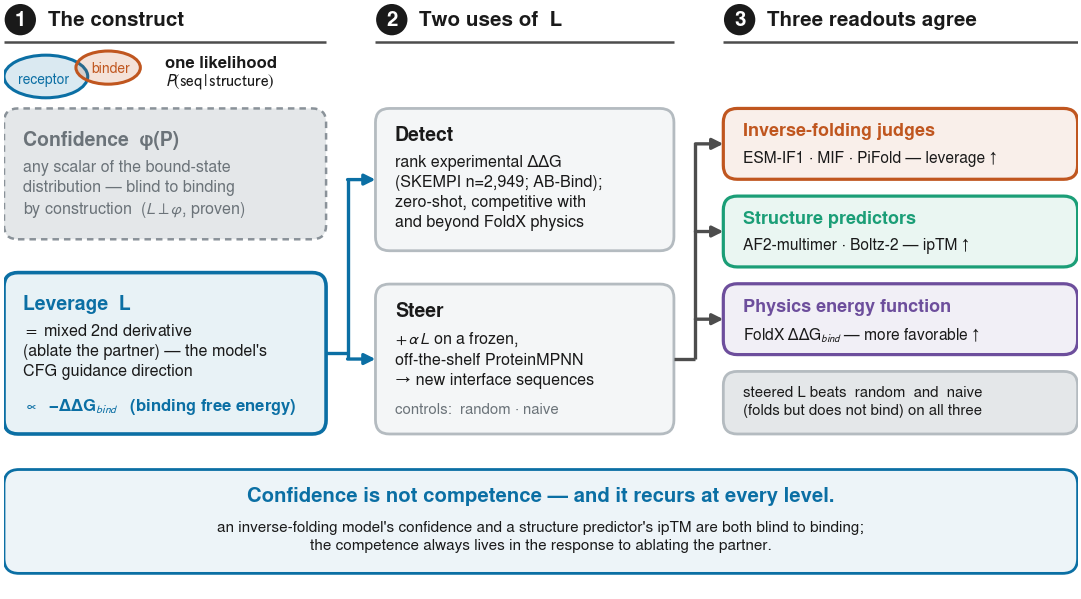
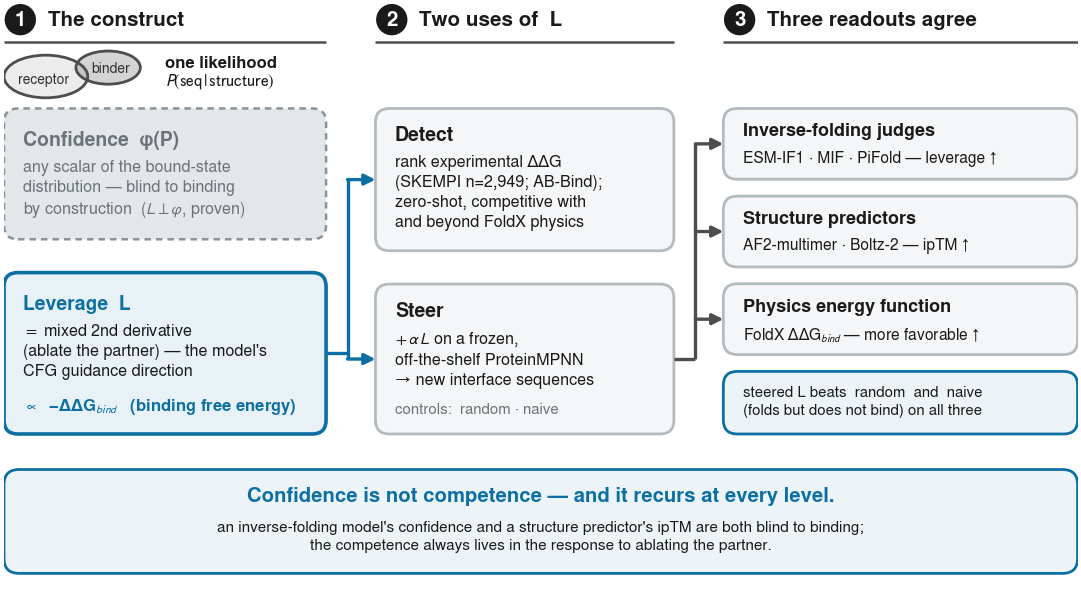
figstyle: give PiFold and MIF their own hues so GEOM/CONS mean geometry and conservation only
GEOM (#1B9E77) and CONS (#6D4E9C) meant geometry and substitution similarity in
fig_ladder / fig5_gradient but were reused as the PiFold and MIF judge identities in
fig_robustness, and as "structure predictors" / "physics energy function" in
fig_overview. One hue, three meanings, across figures a reader flips between.

Adds two MODEL hues -- PIFOLD #CA007F, MIF #996BFE -- chosen by searching OKLCH space
under the dataviz validator's own math and confirmed with the validator itself:

  the four MODEL hues, ALL-PAIRS (any two models can be adjacent rows in a judge list)
    "#0B6FA4,#C0561F,#CA007F,#996BFE" --pairs all --mode light  5/5 PASS
    "#0B6FA4,#C0561F,#CA007F,#996BFE" --pairs all --mode dark   5/5 PASS
      worst CVD dE 10.0 (#CA007F<->#0B6FA4, protan); worst normal dE 18.3
  the documented 6-slot order, ADJACENT
    "#0B6FA4,#C0561F,#CA007F,#996BFE,#1B9E77,#6D4E9C" --mode light  5/5 PASS
    "#0B6FA4,#C0561F,#CA007F,#996BFE,#1B9E77,#6D4E9C" --mode dark   PASS with the
      pre-existing CONS 2.67:1 dark-surface relief WARN (predates these hues; relieved
      by the house rule that every plotted value is direct-labelled)

Both new hues also sit >= 15 normal-vision dE from GEOM and CONS, so nothing reads as
"the teal one" across figures even though model and concept hues never share a chart.

Remapped:
  fig_robustness  judge matrix now takes S.MODEL_HUES (PiFold magenta, MIF violet)
[…]

diff --git a/src/fig_overview.py b/src/fig_overview.py
@@ -14,8 +14,10 @@ so it can never drift from Fig. 1's n.
 
 Layout: a three-column grid with constant gutters. Every box is SIZED FROM ITS OWN TEXT (see `_h`), so a box can
 never be too small for what it holds, and each column is justified to a common floor — the arrows and the thesis
-strip then hang off that same grid. Hue is model/role identity, never decoration: LEV = the construct L and its
-path, SCALAR-grey = the blind scalar-of-P class, ESMIF/GEOM/CONS = the three independent readout families.
+strip then hang off that same grid. Hue is MODEL identity, never decoration: LEV = the construct L and its path,
+SCALAR-grey = the blind scalar-of-P class. The three readout families are families, not models, so they take the
+structural grey of the Detect/Steer boxes rather than borrowing GEOM and CONS, which mean geometry and
+conservation in Figs. ladder / gradient and nothing else.
 
   python3 src/fig_overview.py  ->  results/figures/fig_overview.{pdf,png}
 """
@@ -113,10 +115,12 @@ for (x, w), n, s in zip(COL, "123", ["The construct", "Two uses of  L", "Three r
     ax.plot([x, x + w], [RULE_Y, RULE_Y], "-", color=S.RULE, lw=0.9, zorder=3, solid_capstyle="butt")
 
 # ---------------- stage 1 — the construct ----------------
-ax.add_patch(Ellipse((0.039, 0.876), 0.078, 0.072, fc=S.rgba(S.LEV, 0.15), ec=S.LEV, lw=1.1, zorder=3))
-ax.add_patch(Ellipse((0.097, 0.891), 0.060, 0.056, fc=S.rgba(S.ESMIF, 0.17), ec=S.ESMIF, lw=1.1, zorder=4))
-ax.text(0.037, 0.871, "receptor", fontsize=5.0, color=S.LEV, ha="center", va="center", zorder=5)
-ax.text(0.099, 0.891, "binder", fontsize=5.0, color=S.ESMIF, ha="center", va="center", zorder=5)
+# the two chains are a cartoon, not a series: structural grey, because LEV and ESMIF are the ProteinMPNN
+# and ESM-IF1 identities and must not also mean "receptor" and "binder"
+ax.add_patch(Ellipse((0.039, 0.876), 0.078, 0.072, fc=S.rgba(S.RULE, 0.10), ec=S.RULE, lw=1.0, zorder=3))
+ax.add_patch(Ellipse((0.097, 0.891), 0.060, 0.056, fc=S.rgba(S.RULE, 0.24), ec=S.RULE, lw=1.0, zorder=4))
+ax.text(0.037, 0.871, "receptor", fontsize=5.0, color=S.SOFT, ha="center", va="center", zorder=5)
+ax.text(0.099, 0.891, "binder", fontsize=5.0, color=S.SOFT, ha="center", va="center", zorder=5)
 ax.text(0.150, 0.899, "one likelihood", fontsize=6.0, color=S.INK, ha="left", va="center",
         fontweight="bold", zorder=5)
 ax.text(0.150, 0.867, "$P(\\mathrm{seq}\\,|\\,\\mathrm{structure})$", fontsize=6.0, color=S.INK,
@@ -139,12 +143,17 @@ STEER = dict(title="Steer", fc=S.TINT, ec=S.FLOOR_EDGE, lw=1.0,
              tail="controls:  random · naive", tailsize=5.4)
 
 # ---------------- stage 3 — readouts ----------------
-RD = [(S.ESMIF, "Inverse-folding judges", "ESM-IF1 · MIF · PiFold — leverage ↑"),
-      (S.GEOM, "Structure predictors", "AF2-multimer · Boltz-2 — ipTM ↑"),
-      (S.CONS, "Physics energy function", "FoldX ΔΔG$_{bind}$ — more favorable ↑")]
-READ = [dict(title=t, tcol=c, tsize=6.5, bsize=5.6, body=b, fc=S.rgba(c, 0.09), ec=c, lw=1.15, pad=5.0)
-        for c, t, b in RD]
-AGREE = dict(fc=S.FLOOR_FILL, ec=S.FLOOR_EDGE, lw=1.0, bsize=5.4, pad=5.0,
+# A readout FAMILY is a set of models, not a model identity, so under the house rule ("a hue is a MODEL
+# identity or nothing") these three boxes wear the same structural grey as Detect/Steer and their bold
+# titles carry the identity. They used to wear GEOM and CONS, which made teal mean "structure predictors"
+# here and "geometry" in Figs. ladder / gradient — one hue, two meanings.
+RD = [("Inverse-folding judges", "ESM-IF1 · MIF · PiFold — leverage ↑"),
+      ("Structure predictors", "AF2-multimer · Boltz-2 — ipTM ↑"),
+      ("Physics energy function", "FoldX ΔΔG$_{bind}$ — more favorable ↑")]
+READ = [dict(title=t, tsize=6.5, bsize=5.6, body=b, fc=S.TINT, ec=S.FLOOR_EDGE, lw=1.0, pad=5.0)
+        for t, b in RD]
+# the one box in stage 3 that states a claim about L itself keeps L's hue
+AGREE = dict(fc=S.rgba(S.LEV, 0.07), ec=S.LEV, lw=1.0, bsize=5.4, pad=5.0,
              body="steered L beats  random  and  naive\n(folds but does not bind) on all three")
 
 c1 = stack([CONF, LEVG], COL[0], BAND_TOP, FLOOR)

diff --git a/src/figstyle.py b/src/figstyle.py
@@ -1,5 +1,25 @@
 """Shared figure design system for the ICLR figure set. One place so all figures stay one coherent system.
-Palette validated: node validate_palette.js "#0B6FA4,#C0561F,#1B9E77,#6D4E9C" --mode light -> all 6 checks PASS.
+
+A HUE MEANS EXACTLY ONE THING ACROSS THE WHOLE PAPER. Two disjoint groups, never crossed:
+  MODEL identities  LEV (ProteinMPNN / the construct L) · ESMIF · PIFOLD · MIF
+  CONCEPT hues      GEOM (geometry: burial / ΔSASA / contacts) · CONS (conservation / substitution similarity)
+PIFOLD and MIF exist because GEOM and CONS used to double as the PiFold and MIF judge identities, which made
+teal mean "geometry" in one figure and "PiFold" in another. Anything that is neither a model nor one of those
+two concepts takes a grey: SCALAR for the scalar-of-P class, FLOOR_*/GHOST/TINT for structure.
+
+Palette validation (dataviz scripts/validate_palette.js, Machado-Oliveira-Fernandes 2009 at severity 1.0):
+  the four MODEL hues, ALL-PAIRS (any two models can sit side by side in a judge list) --
+    node validate_palette.js "#0B6FA4,#C0561F,#CA007F,#996BFE" --pairs all --mode light  -> 5/5 PASS
+    node validate_palette.js "#0B6FA4,#C0561F,#CA007F,#996BFE" --pairs all --mode dark   -> 5/5 PASS
+      worst CVD ΔE 10.0 (#CA007F↔#0B6FA4, protan) · worst normal ΔE 18.3 (#CA007F↔#C0561F)
+  the documented 6-slot order, ADJACENT --
+    node validate_palette.js "#0B6FA4,#C0561F,#CA007F,#996BFE,#1B9E77,#6D4E9C" --mode light -> 5/5 PASS
+    node validate_palette.js "#0B6FA4,#C0561F,#CA007F,#996BFE,#1B9E77,#6D4E9C" --mode dark  -> PASS,
+      with one pre-existing WARN (CONS 2.67:1 on the dark surface) that predates these two hues and is
+      relieved the way the house style already requires: every plotted value is direct-labelled.
+  CONCEPT hues are additionally >= 15 normal-vision ΔE from both new MODEL hues, so nothing reads as
+  "the teal one" across figures even though they never share a chart.
+
 Verified house format (ICLR 2026 sty: \textwidth 5.5 true in; NeurIPS demands embedded fonts -> fonttype 42).
 """
 import matplotlib as mpl
@@ -8,7 +28,10 @@ from matplotlib.colors import to_rgba
 
 INK, RULE, MUTED, SOFT = "#1A1A1A", "#4D4D4D", "#6B7379", "#333333"
 SCALAR = "#8A9299"                                     # ONE grey for the scalar-of-P class (they are one class)
-LEV, ESMIF, GEOM, CONS = "#0B6FA4", "#C0561F", "#1B9E77", "#6D4E9C"   # a hue is a MODEL identity or nothing
+LEV, ESMIF, PIFOLD, MIF = "#0B6FA4", "#C0561F", "#CA007F", "#996BFE"   # MODEL identities, in palette order
+GEOM, CONS = "#1B9E77", "#6D4E9C"                      # CONCEPT hues — geometry, conservation. NEVER a model.
+PALETTE = [LEV, ESMIF, PIFOLD, MIF, GEOM, CONS]        # the documented slot order the validation above uses
+MODEL_HUES = {"ProteinMPNN": LEV, "ESM-IF1": ESMIF, "PiFold": PIFOLD, "MIF": MIF}
 FLOOR_FILL, FLOOR_EDGE, GHOST, TINT = "#E4E7E9", "#B4BBC0", "#C8CDD1", "#F4F6F7"
 RAMP_MPNN = ["#D6E7F0", "#A9CBDF", "#7BAECC", "#4B90B9", "#0B6FA4", "#08526F"]   # ordinal ramp (never categorical)
 FIG_W = 5.5                                            # ICLR single-column text width (exact)

diff --git a/src/fig_robustness.py b/src/fig_robustness.py
@@ -124,7 +124,8 @@ assert all(i["iptm"]["lo"] > 0 and i["comp"]["lo"] > 0 for i in INSTR), \
     "a panel-(a) interval touches zero — the figure's claim would be wrong"
 
 # ================================================================== (b) data — the judge matrix
-JCOL = {"ProteinMPNN": S.LEV, "ESM-IF1": S.ESMIF, "PiFold": S.GEOM, "MIF": S.CONS}
+JCOL = dict(S.MODEL_HUES)          # PiFold and MIF have their OWN hues; GEOM/CONS mean geometry and
+assert set(JCOL) >= {"ProteinMPNN", "ESM-IF1", "PiFold", "MIF"}   # conservation, never a model identity
 JUDGES = ["ProteinMPNN", "ESM-IF1", "PiFold", "MIF"]                 # fixed order -> the two blocks
 JKEY = {"ProteinMPNN": "mpnn", "ESM-IF1": "esmif", "PiFold": "pifold", "MIF": "mif"}   # align as a matrix
 JM = pd.concat([pd.read_csv(f"{R}/cfg_judge_matrix.csv"),
